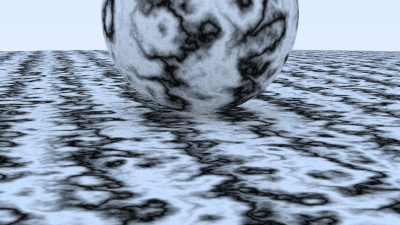
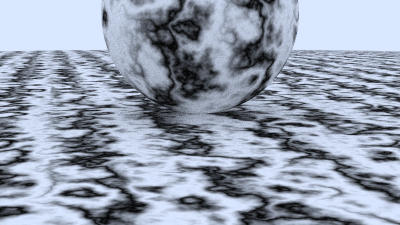
simple lighting

diff --git a/src/camera.rs b/src/camera.rs
@@ -19,6 +19,7 @@ pub struct CameraOptions {
     pub vup: Vec3,
     pub defocus_angle: f64,
     pub focus_dist: f64,
+    pub background: Color,
 }
 
 impl Default for CameraOptions {
@@ -34,6 +35,7 @@ impl Default for CameraOptions {
             vup: vec3(0.0, 1.0, 0.0),
             defocus_angle: 0.0,
             focus_dist: 10.0,
+            background: color(0.0, 0.0, 0.0),
         }
     }
 }
@@ -54,6 +56,7 @@ pub struct Camera {
     defocus_angle: f64,
     defocus_disk_u: Vec3,
     defocus_disk_v: Vec3,
+    background: Color,
 }
 
 impl Camera {
@@ -69,6 +72,7 @@ impl Camera {
             vup,
             defocus_angle,
             focus_dist,
+            background,
         } = options;
         let image_height = (image_width as f64 / aspect_ratio) as usize;
 
@@ -116,6 +120,7 @@ impl Camera {
             defocus_angle,
             defocus_disk_u,
             defocus_disk_v,
+            background,
         }
     }
     pub fn render(&self, world: &dyn Hittable) -> Vec<Vec<Color>> {
@@ -128,7 +133,7 @@ impl Camera {
                     .map(|x| {
                         (0..self.samples_per_pixel)
                             .into_par_iter()
-                            .map(|_| ray_color(&self.get_ray(x, y), self.max_depth, world))
+                            .map(|_| self.ray_color(&self.get_ray(x, y), self.max_depth, world))
                             .sum::<Color>()
                             / self.samples_per_pixel as f64
                     })
@@ -150,8 +155,27 @@ impl Camera {
         Ok(())
     }
 
+    fn ray_color(&self, r: &Ray, depth: u32, world: &dyn Hittable) -> Color {
+        // if we hit the bounce limit, no more light it gathered
+        if depth == 0 {
+            return color(0.0, 0.0, 0.0);
+        }
+
+        if let Some(rec) = world.hit(r, &interval(0.001, f64::INFINITY)) {
+            let color_from_emission = rec.mat.emitted(rec.u, rec.v, rec.p);
+            if let Some((attenuation, scattered)) = rec.mat.scatter(r, &rec) {
+                let color_from_scatter = attenuation * self.ray_color(&scattered, depth - 1, world);
+                color_from_scatter + color_from_emission
+            } else {
+                color_from_emission
+            }
+        } else {
+            self.background
+        }
+    }
+
     fn get_ray(&self, x: usize, y: usize) -> Ray {
-        let offset = Camera::sample_square();
+        let offset = sample_square();
         let pixel_sample = self.pixel_00_loc
             + (self.pixel_delta_u * (x as f64 + offset.x))
             + (self.pixel_delta_v * (y as f64 + offset.y));
@@ -166,35 +190,12 @@ impl Camera {
         ray(ray_origin, ray_direction, rand())
     }
 
-    fn sample_square() -> Vec3 {
-        vec3(rand() - 0.5, rand() - 0.5, 0.0)
-    }
-
     fn defocus_disk_sample(&self) -> Point3 {
         let p = Vec3::random_in_unit_disk();
         self.look_from + (self.defocus_disk_u * p.x) + (self.defocus_disk_v * p.y)
     }
 }
 
-fn ray_color(r: &Ray, depth: u32, world: &dyn Hittable) -> Color {
-    // if we hit the bounce limit, no more light it gathered
-    if depth == 0 {
-        return Color::default();
-    }
-
-    if let Some(rec) = world.hit(r, &interval(0.001, f64::INFINITY)) {
-        if let Some((attenuation, scattered)) = rec.mat.scatter(r, &rec) {
-            attenuation * ray_color(&scattered, depth - 1, world)
-        } else {
-            Color::default()
-        }
-    } else {
-        sky(r)
-    }
-}
-
-fn sky(r: &Ray) -> Color {
-    let unit_direction = r.dir.unit_vector();
-    let t = 0.5 * (unit_direction.y + 1.0);
-    (1.0 - t) * color(1.0, 1.0, 1.0) + t * color(0.5, 0.7, 1.0)
+fn sample_square() -> Vec3 {
+    vec3(rand() - 0.5, rand() - 0.5, 0.0)
 }

diff --git a/src/main.rs b/src/main.rs
@@ -1,11 +1,9 @@
-#![allow(dead_code)]
-
 use std::time::Instant;
 
 use camera::{Camera, CameraOptions};
 use hittables::{quad, sphere, sphere_moving, BvhNode, HittableList};
 use image_writer::PNGImageWriter;
-use materials::{dielectric, lambertian, lambertian_from_color, metal};
+use materials::{dielectric, diffuse_light_from_color, lambertian, lambertian_from_color, metal};
 use primitives::{color, point3, vec3, Color};
 use rand::{rand, rand_range};
 use textures::{checker_texture_from_colors, image_texture_from_bytes, noise_texture};
@@ -43,6 +41,7 @@ fn simple() {
         v_fov: 20.0,
         defocus_angle: 10.0,
         focus_dist: 3.4,
+        background: color(0.7, 0.8, 1.0),
         ..Default::default()
     });
 
@@ -112,6 +111,7 @@ fn bouncing_spheres() {
         look_from: point3(13.0, 2.0, 3.0),
         look_at: point3(0.0, 0.0, 0.0),
         defocus_angle: 0.6,
+        background: color(0.7, 0.8, 1.0),
         ..Default::default()
     });
 
@@ -143,6 +143,7 @@ fn checkered_spheres() {
         v_fov: 20.0,
         look_from: point3(13.0, 2.0, 3.0),
         look_at: point3(0.0, 0.0, 0.0),
+        background: color(0.7, 0.8, 1.0),
         ..Default::default()
     });
 
@@ -168,6 +169,7 @@ fn earth() {
         look_from: point3(0.0, 0.0, 12.0),
         look_at: point3(0.0, 0.0, 0.0),
         vup: vec3(0.0, 1.0, 0.0),
+        background: color(0.7, 0.8, 1.0),
         ..Default::default()
     });
 
@@ -193,6 +195,7 @@ fn perlin_spheres() {
         v_fov: 20.0,
         look_from: point3(13.0, 2.0, 3.0),
         look_at: point3(0.0, 0.0, 0.0),
+        background: color(0.7, 0.8, 1.0),
         ..Default::default()
     });
 
@@ -251,6 +254,7 @@ fn quads() {
         v_fov: 80.0,
         look_from: point3(0.0, 0.0, 9.0),
         look_at: point3(0.0, 0.0, 0.0),
+        background: color(0.7, 0.8, 1.0),
         ..Default::default()
     });
 
@@ -264,6 +268,46 @@ fn quads() {
     println!("Took {:.2?}", end);
 }
 
+fn simple_light() {
+    let mut world = HittableList::default();
+
+    let noise = lambertian(noise_texture(4.0));
+    world.add(sphere(point3(0.0, -1000.0, 0.0), 1000.0, noise.clone()));
+    world.add(sphere(point3(0.0, 2.0, 0.0), 2.0, noise));
+
+    let light = diffuse_light_from_color(color(4.0, 4.0, 4.0));
+    world.add(sphere(point3(0.0, 7.0, 0.0), 2.0, light.clone()));
+    world.add(quad(
+        point3(3.0, 1.0, -2.0),
+        vec3(2.0, 0.0, 0.0),
+        vec3(0.0, 2.0, 0.0),
+        light,
+    ));
+
+    let cam = Camera::new(CameraOptions {
+        v_fov: 20.0,
+        look_from: point3(26.0, 3.0, 6.0),
+        look_at: point3(0.0, 2.0, 0.0),
+        background: color(0.0, 0.0, 0.0),
+        ..Default::default()
+    });
+
+    let image_writer = PNGImageWriter::new("./output/simple_light.png")
+        .expect("failed to initialize image writer");
+
+    let start = Instant::now();
+    cam.render_and_save(&world, image_writer)
+        .expect("failed to save image");
+    let end = start.elapsed();
+    println!("Took {:.2?}", end);
+}
+
 fn main() {
-    quads();
+    // simple();
+    // bouncing_spheres();
+    // checkered_spheres();
+    // earth();
+    // perlin_spheres();
+    // quads();
+    simple_light();
 }

diff --git a/src/materials/diffuse_light.rs b/src/materials/diffuse_light.rs
@@ -1,0 +1,52 @@
+use std::{
+    fmt::{self, Display},
+    sync::Arc,
+};
+
+use crate::{
+    hittables::HitRecord,
+    primitives::{Color, Point3, Ray},
+    textures::{solid_color, Texture},
+};
+
+use super::Material;
+
+pub struct DiffuseLight {
+    tex: Arc<dyn Texture>,
+}
+
+impl DiffuseLight {
+    fn new(tex: Arc<dyn Texture>) -> Self {
+        Self { tex }
+    }
+
+    fn new_from_color(emit: Color) -> Self {
+        Self {
+            tex: solid_color(emit),
+        }
+    }
+}
+
+impl Material for DiffuseLight {
+    fn scatter(&self, _r: &Ray, _rec: &HitRecord) -> Option<(Color, Ray)> {
+        None
+    }
+
+    fn emitted(&self, u: f64, v: f64, p: Point3) -> Color {
+        self.tex.value(u, v, p)
+    }
+}
+
+impl Display for DiffuseLight {
+    fn fmt(&self, f: &mut fmt::Formatter<'_>) -> fmt::Result {
+        write!(f, "diffuse light")
+    }
+}
+
+pub fn diffuse_light(tex: Arc<dyn Texture>) -> Arc<DiffuseLight> {
+    Arc::new(DiffuseLight::new(tex))
+}
+
+pub fn diffuse_light_from_color(color: Color) -> Arc<DiffuseLight> {
+    Arc::new(DiffuseLight::new_from_color(color))
+}

diff --git a/src/materials/material.rs b/src/materials/material.rs
@@ -2,7 +2,7 @@ use std::fmt;
 
 use crate::{
     hittables::HitRecord,
-    primitives::{Color, Ray},
+    primitives::{color, Color, Point3, Ray},
 };
 
 pub trait Material: Send + Sync + fmt::Display {
@@ -10,4 +10,9 @@ pub trait Material: Send + Sync + fmt::Display {
     /// Returns an option of the color attenuation and the output ray. None means the ray was absorbed
     /// Defaults to None
     fn scatter(&self, r: &Ray, rec: &HitRecord) -> Option<(Color, Ray)>;
+
+    fn emitted(&self, u: f64, v: f64, p: Point3) -> Color {
+        let _ = (u, v, p);
+        color(0.0, 0.0, 0.0)
+    }
 }

diff --git a/src/materials/mod.rs b/src/materials/mod.rs
@@ -1,4 +1,5 @@
 mod dielectric;
+mod diffuse_light;
 mod lambertian;
 mod material;
 mod metal;
@@ -7,3 +8,4 @@ pub use dielectric::*;
 pub use lambertian::*;
 pub use material::*;
 pub use metal::*;
+pub use diffuse_light::*;
